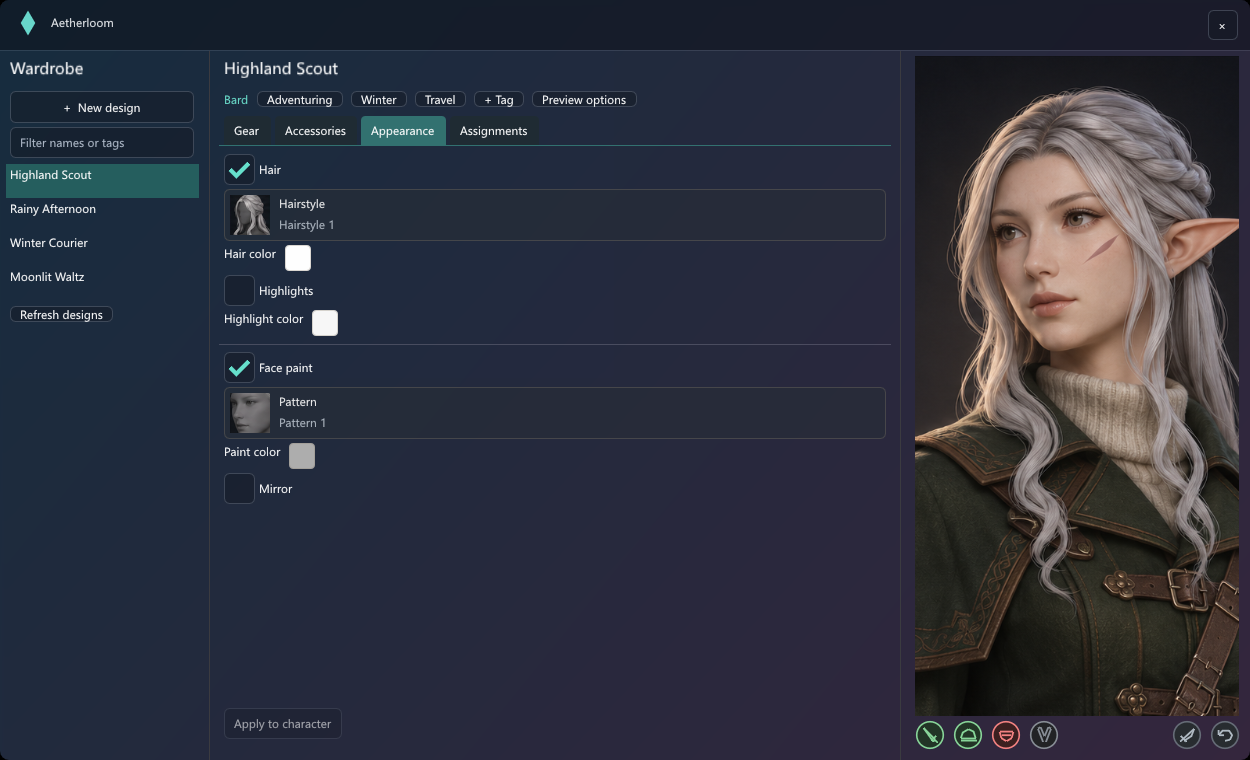
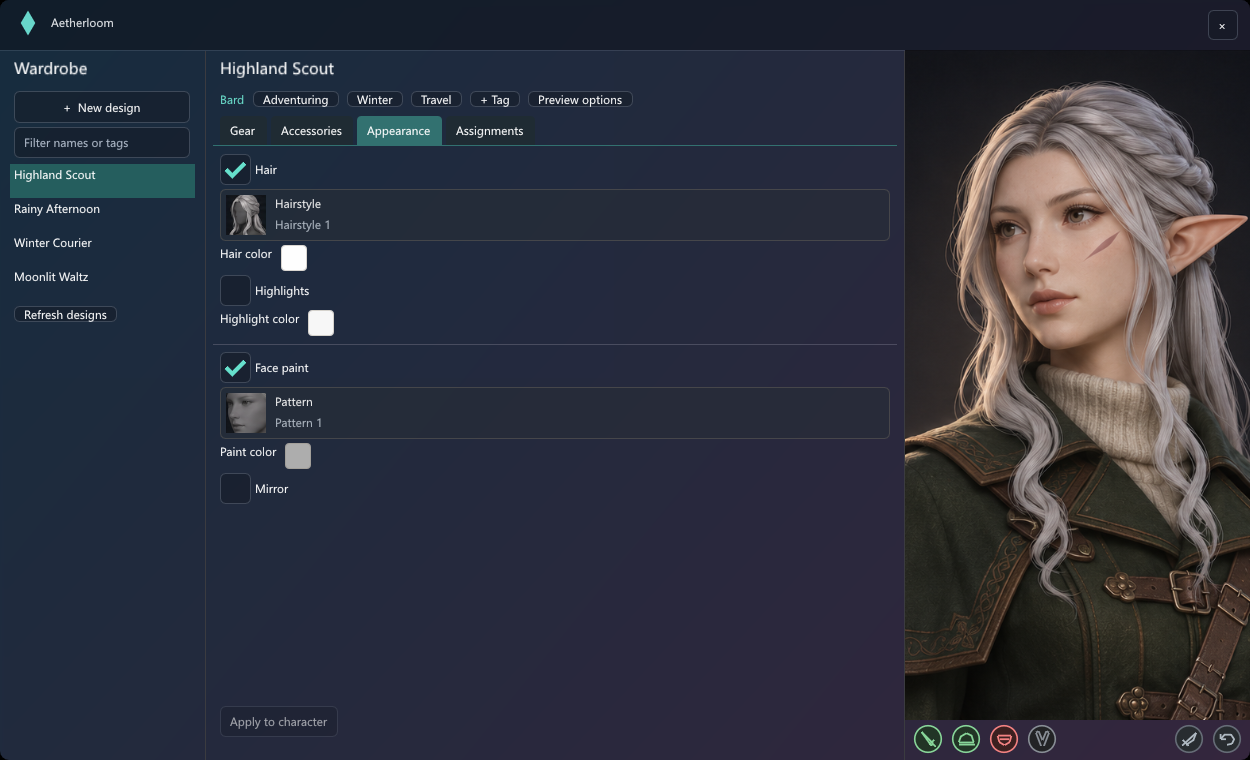
Allow the wardrobe portrait to fill its split pane

diff --git a/Library/WorkspaceControls.cs b/Library/WorkspaceControls.cs
@@ -3,7 +3,7 @@ using Dalamud.Bindings.ImGui;
 
 namespace AetherglassUI;
 
-public readonly record struct Pane(string Id, float Weight, Action Draw, bool FixedWidth=false);
+public readonly record struct Pane(string Id, float Weight, Action Draw, bool FixedWidth=false, bool EdgeToEdge=false);
 public readonly record struct Picture(ImTextureID Texture, Vector2 Uv0, Vector2 Uv1)
 {
     public Picture(ImTextureID texture) : this(texture, Vector2.Zero, Vector2.One) { }
@@ -19,7 +19,12 @@ public static class WorkspaceControls
     public const uint Missing = 0xff817ef0;
     public static void Split(string id, params Pane[] panes)
     {
-        if (!ImGui.BeginTable(id, panes.Length, ImGuiTableFlags.SizingStretchProp | ImGuiTableFlags.BordersInnerV)) return;
+        var inset=ImGui.GetStyle().CellPadding;
+        bool flush=panes.Any(p=>p.EdgeToEdge);
+        if(flush)ImGui.PushStyleVar(ImGuiStyleVar.CellPadding,Vector2.Zero);
+        bool visible=ImGui.BeginTable(id,panes.Length,ImGuiTableFlags.SizingStretchProp|ImGuiTableFlags.BordersInnerV);
+        if(flush)ImGui.PopStyleVar();
+        if(!visible)return;
         try
         {
             foreach (var pane in panes) ImGui.TableSetupColumn(pane.Id, pane.FixedWidth?ImGuiTableColumnFlags.WidthFixed:ImGuiTableColumnFlags.WidthStretch, pane.FixedWidth?pane.Weight*Scale:pane.Weight);
@@ -27,7 +32,8 @@ public static class WorkspaceControls
             foreach (var pane in panes)
             {
                 ImGui.TableNextColumn();
-                ImGui.PushStyleVar(ImGuiStyleVar.WindowPadding, new Vector2(10, 4) * Scale);
+                var padding=pane.EdgeToEdge?Vector2.Zero:new Vector2(10,4)*Scale+(flush?inset:Vector2.Zero);
+                ImGui.PushStyleVar(ImGuiStyleVar.WindowPadding,padding);
                 bool show = ImGui.BeginChild(pane.Id, Vector2.Zero, false, ImGuiWindowFlags.AlwaysUseWindowPadding);
                 ImGui.PopStyleVar();
                 try { if (show) pane.Draw(); }
